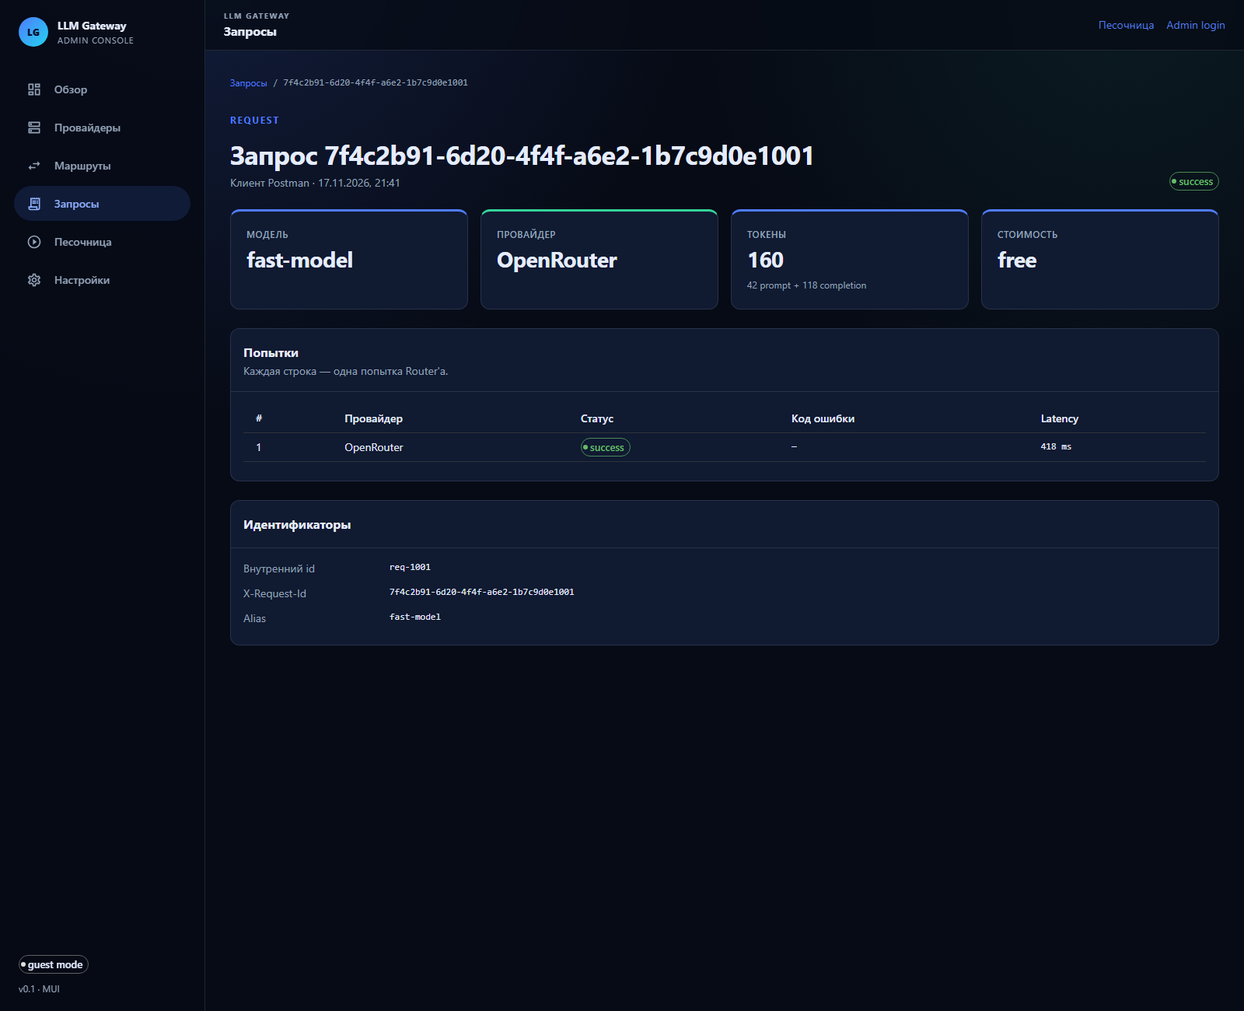
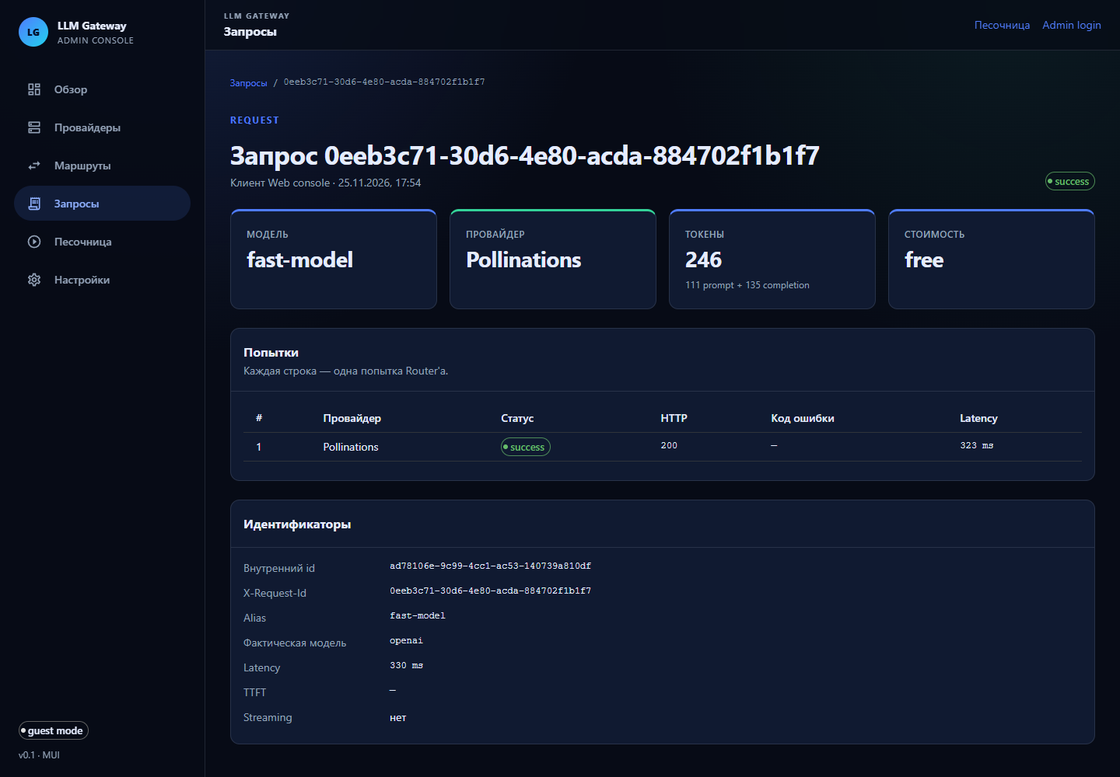
docs: describe MVP scenario, launch steps and screenshots
README now covers the end-to-end playground to request journal flow, launch order, checks and real screenshots. MVP boundaries and architecture docs reflect the read-only journal API and the /api Vite proxy, and .env.example shows an ESM-safe key generation command.

diff --git a/README.md b/README.md
@@ -34,20 +34,69 @@
 [`architecture.md`](architecture.md). Границы MVP и use case — в
 [`mvp.md`](mvp.md).
 
+### MVP и основной сценарий
+
+MVP — консоль шлюза, в которой разработчик или администратор может:
+
+- посмотреть провайдеров и alias-маршруты;
+- отправить тестовый запрос в `POST /v1/chat/completions` из песочницы;
+- увидеть ответ модели и провайдера, который его обслужил;
+- найти запрос по `X-Request-Id` в журнале;
+- открыть детали запроса и проверить попытки, latency, токены и стоимость.
+
+Основной сценарий из [`mvp.md`](mvp.md):
+
+1. Пользователь открывает `/playground`.
+2. Выбирает alias модели `fast-model`.
+3. Вводит клиентский ключ `lgw_...`.
+4. Вводит текст запроса.
+5. Нажимает «Отправить запрос».
+6. Frontend отправляет `POST /v1/chat/completions` через Vite proxy.
+7. Backend выбирает провайдера и ключ и выполняет запрос.
+8. Frontend показывает ответ, имя провайдера и `X-Request-Id`.
+9. Пользователь открывает `/requests`, находит запрос по `request_id`
+   и на `/requests/:requestId` проверяет попытки, latency и стоимость.
+
+Что реализовано в MVP:
+
+- реальный вызов `POST /v1/chat/completions` из песочницы;
+- журнал запросов из read-only API `GET /api/requests` и
+  `GET /api/requests/:requestId`;
+- страницы `/playground`, `/requests`, `/requests/:requestId` и `/`
+  работают на данных backend;
+- провайдеры, маршруты и настройки остаются демонстрационными
+  заглушками, как и предусмотрено границами MVP.
+
 ### Запуск веб-консоли
 
-Сначала запустите backend по инструкции ниже. Затем установите
-зависимости и соберите библиотеку:
+Порядок запуска из корня репозитория:
+
+1. Поднять PostgreSQL, установить зависимости и применить миграции:
+
+```sh
+docker compose up -d
+npm install
+npm run db:migrate
+```
+
+2. Заполнить `.env` по разделу «Быстрый старт», выполнить seed и создать
+   клиентский ключ:
+
+```sh
+npm run db:seed
+npm run db:create-client -- "Web console" 60
+```
+
+Сохраните выведенный ключ `lgw_...`: он понадобится в песочнице. В базе
+хранится только SHA-256-хэш ключа, восстановить его нельзя.
+
+3. Собрать UI-библиотеку и запустить frontend:
 
 ```sh
 cd web/ui-library
 npm install
 npm run build
-```
 
-После этого запустите frontend:
-
-```sh
 cd ../frontend
 npm install
 npm run dev
@@ -57,8 +106,16 @@ npm run dev
 через `predev`, `prebuild` и `pretest`, поэтому отдельный `npm run build`
 нужен только для первой проверки.
 
-Откройте `http://localhost:5173`. Vite проксирует запросы `/v1` на
-`http://localhost:3000`, поэтому песочница работает без CORS.
+4. В отдельном терминале запустить backend из корня репозитория:
+
+```sh
+npm run dev
+```
+
+5. Открыть `http://localhost:5173/playground` и выполнить основной
+   сценарий. Vite проксирует запросы `/v1` и `/api` на
+   `http://localhost:3000`, поэтому песочница и журнал запросов
+   работают без CORS.
 
 Проверки обоих frontend-проектов:
 
@@ -70,45 +127,52 @@ cd ../frontend
 npm run lint && npm run test:coverage && npm run build
 ```
 
-### Скриншоты
+Проверки backend:
 
-Панель управления с mock-снимком состояния шлюза:
+```sh
+npm run test
+npm run build
+```
 
-![Панель управления](docs/screenshots/dashboard.png)
+### Скриншоты основного сценария
 
-Список провайдеров:
-
-![Провайдеры](docs/screenshots/providers.png)
-
-Детали провайдера с параметром маршрута:
-
-![Детали провайдера](docs/screenshots/provider-details.png)
-
-Песочница для реального запроса через backend:
+Песочница: ответ модели, провайдер и `X-Request-Id` со ссылкой на
+журнал. Запрос уходит с system-сообщением «Отвечай на русском языке,
+если пользователь не попросил ответить на другом языке».
 
 ![Песочница](docs/screenshots/playground.png)
 
-Песочница отправляет запрос вместе с system-сообщением «Отвечай на
-русском языке, если пользователь не попросил ответить на другом языке»,
-поэтому ответ модели приходит по-русски. Backend принимает роли
-`system`, `user` и `assistant`.
-
-Журнал запросов:
+Журнал запросов: данные из `GET /api/requests`, статус, провайдер,
+стоимость и время.
 
 ![Запросы](docs/screenshots/requests.png)
 
-Детали запроса и fallback-попытки:
+Детали запроса: попытки Router'а, HTTP-статус, latency, токены и
+стоимость.
 
 ![Детали запроса](docs/screenshots/request-details.png)
+
+Панель управления: сводка по журналу и маршрутам.
+
+![Панель управления](docs/screenshots/dashboard.png)
+
+Список провайдеров и детали провайдера (демонстрационные данные):
+
+![Провайдеры](docs/screenshots/providers.png)
+
+![Детали провайдера](docs/screenshots/provider-details.png)
 
 Защищённый раздел настроек:
 
 ![Настройки](docs/screenshots/settings.png)
 
-> Скриншоты сделаны на каркасе с mock-данными. Интерфейс построен на
-> MUI 7 с тёмной темой, компоненты взяты из `@llm-gateway/ui`. Реальные
-> провайдеры, ключи и журнал будут подключены через admin API в
-> следующих инкрементах.
+> Скриншоты основного сценария сделаны на реальном запросе через
+> OpenAI-совместимый провайдер Pollinations, добавленный в БД для
+> демонстрации в окружении без доступа к OpenRouter. Код приложения не
+> зависит от конкретного провайдера: с `OPENROUTER_API_KEY` seed создаёт
+> маршрут `fast-model → OpenRouter`. Провайдеры и маршруты на страницах
+> `/providers` и `/models` остаются mock-данными, журнал и детали
+> запроса читаются из backend.
 
 ## Быстрый старт
 
@@ -121,7 +185,7 @@ docker compose up -d
 
 ```powershell
 Copy-Item .env.example .env
-node -e "console.log(require('crypto').randomBytes(32).toString('base64'))"
+node -e "import('node:crypto').then(({ randomBytes }) => console.log(randomBytes(32).toString('base64')))"
 ```
 
 Полученное значение подставьте в `ENCRYPTION_KEY`. Docker Desktop должен быть
@@ -331,6 +395,38 @@ curl.exe -i -sS -X POST http://localhost:3000/v1/chat/completions `
 - запись журнала best-effort: если БД недоступна, клиент всё равно получит
   ответ провайдера, а ошибка сохранения попадёт в лог приложения;
 - `X-Request-Id` возвращается на всех ответах, включая ошибки.
+
+#### Read-only API для веб-консоли
+
+Веб-консоль не читает БД напрямую и не использует статический снимок
+журнала. Backend отдаёт журнал двумя read-only endpoint'ами:
+
+```http
+GET /api/requests?limit=50
+GET /api/requests/:requestId
+```
+
+`GET /api/requests` возвращает последние запросы в виде
+`{ "requests": [...] }`, а `GET /api/requests/:requestId` — запрос вместе
+с массивом `attempts`. Если запрос не найден, возвращается `404`:
+
+```json
+{
+  "error": {
+    "code": "request_not_found",
+    "message": "Request 6f1c2a7e-... was not found"
+  }
+}
+```
+
+Эти endpoint'ы не содержат секретов, поэтому чтение журнала открыто без
+admin-токена. Он понадобится для будущих операций изменения данных.
+Vite проксирует `/api` на backend, поэтому в браузере достаточно
+открыть `http://localhost:5173/requests`.
+
+После ответа песочница показывает `X-Request-Id` и ссылку на детали
+запроса. Запись уже сохранена к моменту отправки ответа клиенту, поэтому
+переход в журнал сразу находит нужный request id.
 
 ### Стоимость запросов
 
@@ -653,7 +749,8 @@ docker compose exec postgres psql -U gateway -d llm_gateway -c \
 - маршрут `alias → model`;
 - активный ключ в `api_keys`.
 
-`ADMIN_TOKEN` пока не используется: он предназначен для будущей админки.
+`ADMIN_TOKEN` пока не используется: журнал доступен через read-only API
+без токена, а операции изменения данных появятся в следующих инкрементах.
 
 ## Скрипты
 
@@ -742,3 +839,7 @@ deepseek/deepseek-r1:free
 - [x] Circuit breaker ключей
 - [x] Веб-консоль: React frontend и библиотека общих компонентов
 - [x] Интерфейс на MUI 7: тёмная тема, Drawer/AppBar, таблицы и формы
+- [x] Журнал запросов в консоли читается из backend (`/api/requests`)
+- [x] Read-only API деталей запроса (`/api/requests/:requestId`)
+- [x] MVP: песочница, журнал и детали запроса работают end-to-end
+- [x] Скриншоты основного сценария и инструкция запуска в README

diff --git a/architecture.md b/architecture.md
@@ -41,8 +41,9 @@ llm-gateway-coursework/
 │   │   ├── src/
 │   │   │   ├── auth/            # контекст админ-сессии
 │   │   │   ├── components/      # AppLayout, SidebarNav, RequireAdmin
-│   │   │   ├── data/            # типы и mock-данные
-│   │   │   ├── lib/             # форматирование
+│   │   │   ├── data/            # типы и mock-данные провайдеров/маршрутов
+│   │   │   ├── hooks/           # загрузка журнала запросов из API
+│   │   │   ├── lib/             # форматирование и HTTP-клиент
 │   │   │   ├── pages/           # страницы приложения
 │   │   │   ├── router/          # конфигурация маршрутов
 │   │   │   ├── App.tsx
@@ -98,6 +99,7 @@ rate limiting, журналирование и расчёт стоимости.
 | `src/db/schema.ts` | Drizzle-схема PostgreSQL |
 | `src/db/*Repository.ts` | Доступ к провайдерам, ключам, маршрутам и логам |
 | `src/routes/chatCompletions.ts` | `POST /v1/chat/completions`, JSON и SSE |
+| `src/routes/adminRequests.ts` | Read-only API журнала: `GET /api/requests`, `GET /api/requests/:requestId` |
 
 ### 3.2 Frontend (`web/frontend`)
 
@@ -118,8 +120,10 @@ rate limiting, журналирование и расчёт стоимости.
 | `src/components/RequireAdmin/` | Защита маршрутов, redirect на `/login` |
 | `src/auth/` | Контекст админ-сессии и `sessionStorage` |
 | `src/pages/` | Страницы приложения |
-| `src/data/` | Типы и mock-данные для каркаса |
+| `src/data/` | Типы и mock-данные провайдеров и маршрутов |
+| `src/hooks/` | Загрузка журнала запросов из read-only API |
 | `src/lib/format.ts` | Форматирование дат, micro-USD и статусов |
+| `src/lib/api.ts` | HTTP-клиент журнала и разбор ответов backend |
 
 Стилей в CSS-файлах нет: вся вёрстка описана пропом `sx` и темой MUI,
 поэтому глобальный `src/styles/global.css` больше не нужен.
@@ -135,8 +139,8 @@ rate limiting, журналирование и расчёт стоимости.
 | `ProvidersPage` | Список провайдеров |
 | `ProviderDetailsPage` | Детали провайдера по `:providerId` |
 | `ModelsPage` | Alias-маршруты и upstream-модели |
-| `RequestsPage` | Журнал запросов |
-| `RequestDetailsPage` | Попытки и стоимость запроса по `:requestId` |
+| `RequestsPage` | Журнал запросов из `GET /api/requests` |
+| `RequestDetailsPage` | Попытки и стоимость запроса по `:requestId` из `GET /api/requests/:requestId` |
 | `PlaygroundPage` | Песочница: отправка реального запроса через Vite proxy |
 | `SettingsPage` | Защищённый раздел админ-настроек |
 | `LoginPage` | Демонстрационный вход в админ-сессию |
@@ -382,8 +386,11 @@ npm run test:coverage
 
 ## 9. Ограничения текущего каркаса
 
-- Провайдеры, ключи и журнал на страницах — mock-данные.
+- Провайдеры, ключи и маршруты на страницах — mock-данные.
+- Журнал запросов и детали запроса читаются из backend через
+  read-only API `/api/requests`.
 - Admin API для CRUD ещё не реализован.
 - Админ-сессия хранится в `sessionStorage` и не проверяется backend.
-- Песочница использует Vite proxy `/v1` → `http://localhost:3000`.
+- Песочница использует Vite proxy `/v1` → `http://localhost:3000`,
+  журнал — `/api` → `http://localhost:3000`.
 - Графики, WebSocket-обновления и полноценная аналитика не входят в MVP.

diff --git a/mvp.md b/mvp.md
@@ -127,8 +127,10 @@ MVP не заменяет полноценную admin-панель и не ре
   - `*` — 404.
 - Навигация без ошибок в консоли.
 - Реальное использование минимум одного компонента библиотеки.
-- Mock-данные для провайдеров, маршрутов и журнала.
+- Mock-данные для провайдеров и маршрутов.
 - Реальный вызов `POST /v1/chat/completions` из песочницы.
+- Журнал запросов и детали запроса из read-only API
+  (`/api/requests`, `/api/requests/:requestId`).
 - Защита `/settings` через `RequireAdmin` и `sessionStorage`.
 - Юнит-тесты библиотеки и тесты роутинга frontend.
 - ESLint, coverage и строгая типизация.
@@ -137,7 +139,8 @@ MVP не заменяет полноценную admin-панель и не ре
 
 - CRUD провайдеров, моделей, маршрутов и ключей через UI.
 - Реальная аутентификация администратора и роли.
-- Загрузка журнала и провайдеров из admin API.
+- Загрузка провайдеров, моделей, маршрутов и ключей из admin API.
+  Журнал запросов уже читается через read-only API.
 - Графики, агрегаты и экспорт отчётов.
 - WebSocket/SSE-обновления в реальном времени.
 - Управление rate limit и лимитами клиентов.
@@ -158,6 +161,9 @@ MVP не заменяет полноценную admin-панель и не ре
 7. UI library используется на страницах и имеет coverage не ниже 70%
    хотя бы по одному компоненту.
 8. В исходном коде нет `any`, `require`, `module.exports` и `var`.
+9. После ответа песочницы запрос находится в `/requests` по
+   `X-Request-Id`, а `/requests/:requestId` показывает его попытки,
+   latency и стоимость из backend.
 
 ## 7. Развитие после MVP
 

diff --git a/docs/architecture.md b/docs/architecture.md
@@ -51,6 +51,8 @@ Client
 8. Ответ нормализуется в OpenAI-совместимый формат.
 9. В БД пишутся `request_logs` и `request_attempts`.
 10. Клиент получает JSON или SSE-поток.
+11. Веб-консоль читает журнал через read-only
+    `GET /api/requests` и `GET /api/requests/:requestId`.
 
 ## 4. Модель маршрутизации
 
@@ -130,7 +132,9 @@ index = (index + 1) % keys.length
 - Ключи клиентов хранятся как HMAC/SHA-256 hash, а не в открытом виде.
 - В логах Pino настраивается redaction для `authorization`, `x-api-key`,
   `cookie`.
-- Admin API защищён отдельным `ADMIN_TOKEN`.
+- Admin API для изменения данных защищён отдельным `ADMIN_TOKEN`.
+- Read-only API журнала (`/api/requests`) не содержит секретов и доступен
+  веб-консоли без токена.
 - `base_url` провайдера проверяется по allowlist, чтобы не получить SSRF.
 
 ## 8. Данные
